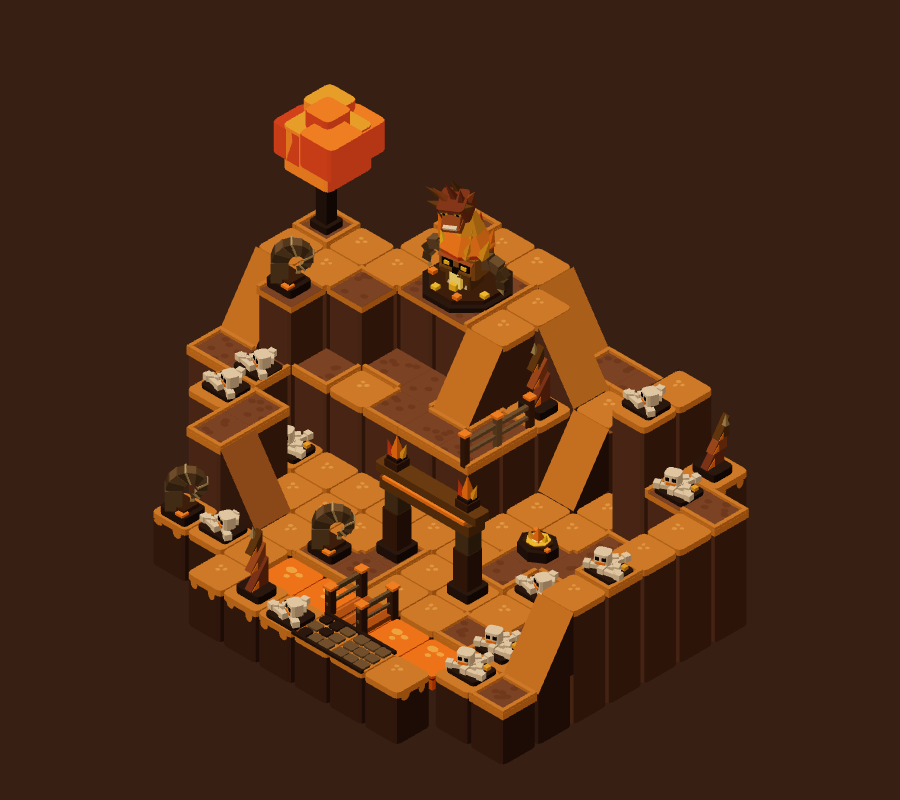
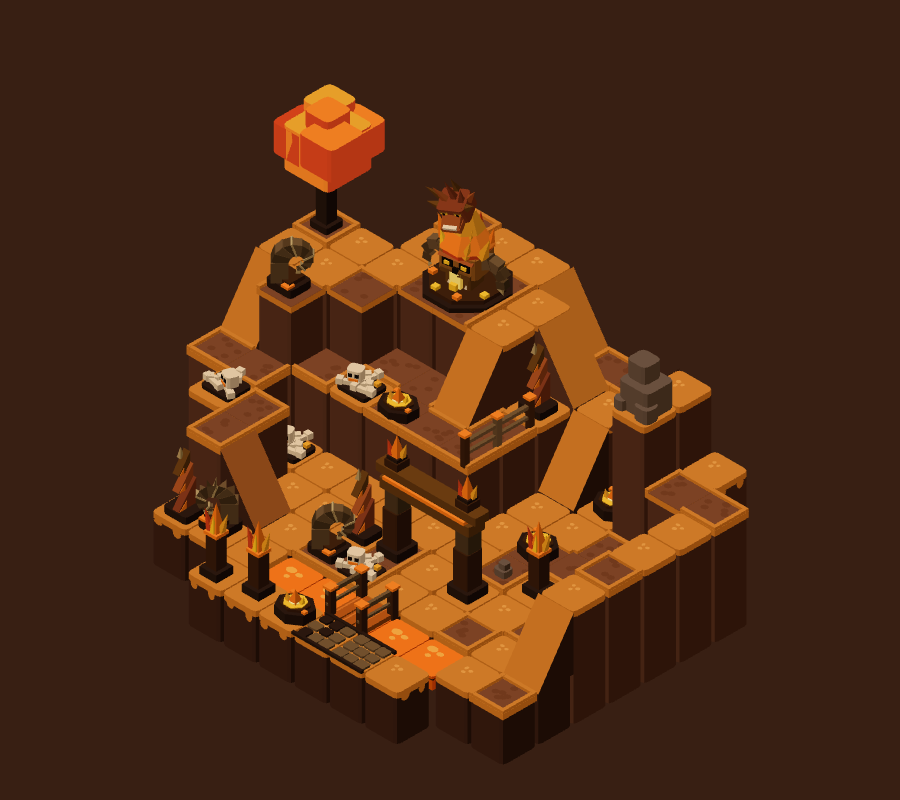
Add type diversity and rim-density rules to the decor loop
No type may pass 35% of props, clusters mix two or three types, new
props come round-robin from the brief's motifs, island types and rocks
with low passable pieces near the route, and the rim may not run
denser than the figure court. Stamps no longer chain clusters.
ember-subject rebuilt: top type share 0.33 to 0.17, beats 5/5.

diff --git a/docs/RUN.md b/docs/RUN.md
@@ -509,16 +509,18 @@ node tools/loops/decor-metrics.mjs home,ember-subject,cat-medium,wizard-medium
 
 The loop runs as a second command after the build. It reads the level JSON and the brief at `pipeline/seed/concepts/<level>.json`, seeds itself from the level name (`--seed n` overrides it), and writes the same file for the same seed. A finish script can call the same pass as `h.cluster()`; `pipeline/a-transcribe/finish-cluster.mjs` holds both. `--out file.json` writes elsewhere; neither flag means a dry run.
 
-`decor-metrics.mjs` counts as props every decor entry except the figure, flat passable floor stamps (`road-run`, `bridge-span`, `stepping-stones`, `marker`) and floating pickups. Props link into a cluster when any of their cells touch (Chebyshev 1). Zones split the land outside the figure: figure court within 2 cells of the figure, threshold within 1 of the gate on the route, approach within 1 of the BFS route from spawn to the figure, rim the rest. Bands: figure 0 to 0.15, threshold 0.2 to 0.5, approach 0.15 to 0.35, rim 0.25 to 0.4, whole island 0.25 to 0.35. `--render png --overlay out.png` adds the figure-versus-rim edge ratio and draws clusters, singletons and the route.
+`decor-metrics.mjs` counts as props every decor entry except the figure, flat passable floor stamps (`road-run`, `bridge-span`, `stepping-stones`, `marker`) and floating pickups. Two 1x1 props share a cluster when their cells touch (Chebyshev 1); a multi-cell stamp (arch, canopy, fence run) joins one neighbour's cluster but never links two clusters. Zones split the land outside the figure: figure court within 2 cells of the figure, threshold within 1 of the gate on the route, approach within 1 of the BFS route from spawn to the figure, rim the rest. Bands: figure 0.15 to 0.4, threshold 0.2 to 0.5, approach 0.15 to 0.35, rim 0.2 to 0.35, whole island 0.25 to 0.35, and the rim may not run denser than the figure court. No type may pass 35% of props, and a cluster of two or more movable props holds at least two types. `--render png --overlay out.png` adds the figure-versus-rim edge ratio and draws clusters, singletons and the route.
 
-| Level | Props/walkable | Figure | Threshold | Approach | Rim | All | Singleton share | Clusters | Mean spacing | Fit mismatches | Beats | Trail gap |
+The loop draws new props round-robin from the brief's named motifs, the island's movable types, and `rock`/`rock-big` when the palette carries rock tones. It puts low passable pieces (height up to 0.6) within one cell of the route or in the figure court, and taller blocking pieces away from them, relaxing that only when nothing else fits. It never moves the figure, gates, lights, things, stamps or any multi-cell piece, never touches cells, and keeps every prop off the route.
+
+| Level | Props/walkable | Figure | Threshold | Approach | Rim | All | Singleton share | Top type share | Clusters | Mean spacing | Beats | Trail gap |
 |---|---|---|---|---|---|---|---|---|---|---|---|---|
-| `home` | 33/66 | n/a | n/a | 0.38 | 0.62 | 0.50 | 0.03 | 8 | 3.8 | 0 | n/a | 1 |
-| `ember-subject` before | 12/92 | 0.17 | 0.13 | 0.14 | 0.10 | 0.13 | 0.50 | 9 | 2.6 | 0 | 1/5 | 1 |
-| `ember-subject` after | 23/92 | 0.13 | 0.20 | 0.21 | 0.36 | 0.25 | 0.00 | 7 | 3.5 | 0 | 3/5 | 1 |
-| `cat-medium` | 10/108 | 0.08 | 0.18 | 0.07 | 0.09 | 0.09 | 0.70 | 8 | 3.2 | 0 | 1/5 | 1 |
-| `wizard-medium` | 12/108 | 0.13 | 0.19 | 0.12 | 0.06 | 0.11 | 0.58 | 9 | 2.3 | 0 | 3/5 | 3 |
+| `home` | 33/66 | n/a | n/a | 0.38 | 0.62 | 0.50 | 0.03 | 0.12 | 8 | 3.8 | n/a | 1 |
+| `ember-subject` before | 12/92 | 0.17 | 0.13 | 0.14 | 0.10 | 0.13 | 0.50 | 0.33 | 9 | 2.6 | 1/5 | 1 |
+| `ember-subject` after | 23/92 | 0.21 | 0.40 | 0.29 | 0.21 | 0.25 | 0.00 | 0.17 | 6 | 3.1 | 5/5 | 1 |
+| `cat-medium` | 10/108 | 0.08 | 0.18 | 0.07 | 0.09 | 0.09 | 0.70 | 0.30 | 8 | 3.2 | 1/5 | 1 |
+| `wizard-medium` | 12/108 | 0.13 | 0.19 | 0.12 | 0.06 | 0.11 | 0.58 | 0.58 | 9 | 2.3 | 3/5 | 3 |
 
-ember-subject singleton share reads 0.50 under these rules; LOOPS.md's 0.57 counted the road and bridge stamps. The loop made 9 moves: two gathers, one fill beside the ember vent, four new pairs, two grows. Every zone and the whole island now sit in band, reach goes 84/84 to 81/81 with nothing missing (new props block three cells), the route stays 12 steps, and the longest x-ray run stays 3. Beats rose from 1/5 to 3/5; the two left need the `feathered_flame_flick` colonnade, which the build never places (the arch stands in for it). The figure-versus-rim edge ratio fell from 0.96 to 0.77, so the rim now out-shouts the figure. Dry runs on cat-medium (0.70 to 0.04, density 0.25) and wizard-medium (0.58 to 0.14, density 0.20) wrote nothing.
+ember-subject singleton share reads 0.50 under these rules; LOOPS.md's 0.57 counted the road and bridge stamps. The loop made 10 moves: two gathers, one fill, three mixed pairs, two extensions into the figure court, two grows. After it, the props run `calcined_bone_pile` 4, `glowing_ember_vent` 4, `curved_ram_horn` 3, `dorsal_crest_fin` 3, `feathered_flame_flick` 3, `rock-big` 1, `rock` 1, plus the four fixed stamps. Every zone sits in band, no cluster holds one type, reach goes 84/84 to 76/76 with nothing missing (new props block eight cells), the route stays 12 steps, and the longest x-ray run stays 3. Same-family share for clusters of three or more reads 0.50: mixed clusters trade family coherence for type variety. The figure-versus-rim edge ratio reads 0.92 against 0.96 before, still under the 1.2 target; matching rim density to the figure court held it near level but did not raise it. Dry runs: cat-medium 0.70 to 0.04, wizard-medium 0.58 to 0.00, neither written.
 
-Files in `out/loops/`: `ember-decor-before.png` renders the committed level before the loop (`out/final/ember-subject.png` predates stage 3 and no longer matches it), `ember-decor-after.png`, `ember-decor-overlay.png`, `ember-decor-overlay-before.png`. Critic on the after render (3 votes, `out/loops/critic-ember-after.json`): 0 high, 1 medium, the stepped path at the ramp meeting a cliff face, terrain the loop does not touch. Spend $0.0254 across 3 calls. QA: `PP_PROFILE=.pp-profile-loops1 node tools/qa-levels.mjs http://localhost:8765 ember-subject` 14 pass, 0 fail.
+Files in `out/loops/`: `ember-decor-before.png` renders the committed level before the loop (`out/final/ember-subject.png` predates stage 3 and no longer matches it), `ember-decor-after.png`, `ember-decor-overlay.png`, `ember-decor-overlay-before.png`. Critic on the after render (3 votes, `out/loops/critic-ember-after.json`): 0 high, 0 medium, clean. An earlier pass that piled 13 bone piles drew 0 high, 1 medium; total critic spend $0.047 across 6 calls. QA: `PP_PROFILE=.pp-profile-loops1 node tools/qa-levels.mjs http://localhost:8765 ember-subject` 14 pass, 0 fail.

diff --git a/docs/NOTES.md b/docs/NOTES.md
@@ -95,6 +95,6 @@
 - Unmerged parts skip the decor Baker's light, so `3d/things.js` and the wizard head bake with `new Baker(style.light)`; a rotated head keeps the light of its rest normals.
 - The 2d build shares `core/game.js`, so wizard-medium in 2d gets the prompts and the blocked bonfire and chest cells with nothing drawn on them.
 - The gate bars first rose 1.6 above the posts and read as bars floating over the arch in the clip; they now scale down into the lintel.
-- 2026-10-02 loops stage 1. The decor loop counts `reach` against walkable cells free of decor, so each blocking prop it adds drops the total; it checks `missing`, never `reached`. ember-subject went 84/84 to 81/81. `h.walkN() < 84` in `finishLens` would call `grow` if the pass ever ran inside finish before that line.
-- The loop draws only from the island's own 1x1 movable types. On ember-subject only `calcined_bone_pile` stands under height 1, so 13 of 23 props are bone piles; an island with one low type gets a repetitive floor.
+- 2026-10-02 loops stage 1. The decor loop counts `reach` against walkable cells free of decor, so each blocking prop it adds drops the total; it checks `missing`, never `reached`. ember-subject went 84/84 to 76/76. `h.walkN() < 84` in `finishLens` would call `grow` if the pass ever ran inside finish before that line.
+- The first loop drew only from the island's own movable types and picked the lowest same-family piece, so ember-subject ended with 13 of 23 bone piles. The pool now adds the brief's named motifs and rocks, rotates round-robin, and caps any type at 35%. The pool still lacks mushrooms and flame wisps on ember: the ember pieces register neither, and the pack mushroom has no ember palette entry.\n- Fixed stamps used to chain every nearby prop into one cluster (a 12-prop blob through the arch). Stamps now join one cluster and never link two.
 - Edge ratio from `decor-metrics.mjs --render` maps cells to pixels with the renderer's `view.zoom * min(w/351, h/390)` around `view.center`; the overlay lines up at 900x800 with `hero=0`. A camera clamp at another size would shift it.
